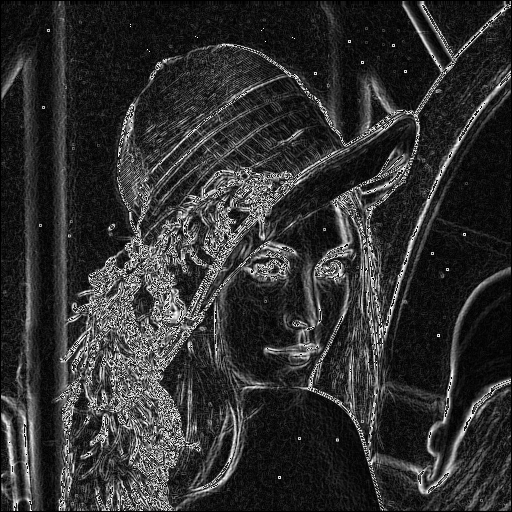
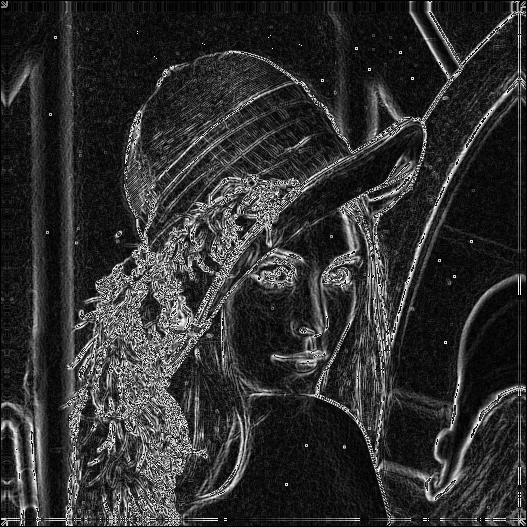
Sobel with reflection padding

diff --git a/Gaussian1D/src/gaussian/Main.java b/Gaussian1D/src/gaussian/Main.java
@@ -10,9 +10,38 @@ public class Main {
 
     /*--------------------------------------------------------------------------------------------*/
     public static void main(String[] args) throws IOException {
+        
+        /* Reflection Padding */
+        String input = "src/image/assignment03.png";
+        String output = Reflection(input, 15);
+        System.out.println("New Image: " + output);
+        
+        Gaussian1D(output);                
+    }
+    /*--------------------------------------------------------------------------------------------*/         
+    private static String Reflection(String input, int size) throws IOException {
+        
+        String output = "src/image/ReflectionPadded.png";
+        ImageReflection ref = new ImageReflection(input);
+        
+        int[][]src = ref.ImageRead(input);
+        int[][]vert = ref.ImageRead("src/image/vertical.png");
+        int[][]horiz = ref.ImageRead("src/image/horizontal.png");
+        int[][]larger = ref.reflection(src, vert, horiz, size);
+        
+        ref.writeImage(larger, output); 
+    
+        return output;
+    }
+    /*--------------------------------------------------------------------------------------------*/
 
+    private static void Gaussian1D(String source) throws IOException {
+
+        String gaussian1 = "src/image/gaussian_blur1.png";
+        String gaussian2 = "src/image/gaussian_blur2.png";
+        
         System.out.println("Reading Image: src/image/assignment03.png");
-        BufferedImage src = ImageIO.read(new File("src/image/assignment03.png"));
+        BufferedImage src = ImageIO.read(new File(source));
         BufferedImage dest = new BufferedImage(src.getWidth(), src.getHeight(), BufferedImage.TYPE_INT_ARGB);
         
         System.out.println("Computing Gaussian Kernel");
@@ -23,10 +52,10 @@ public class Main {
         cop.filter(src, dest);
         
         // Writing to a file
-        File outputfile = new File("src/image/blur1.png");
+        File outputfile = new File(gaussian1);
         ImageIO.write(dest, "png", outputfile);
         
-        src = ImageIO.read(new File("src/image/blur1.png"));
+        src = ImageIO.read(new File(gaussian1));
         dest = new BufferedImage(src.getWidth(), src.getHeight(), BufferedImage.TYPE_INT_ARGB);
         cop = gb.getGaussianBlurFilter(15, 1.6f, false);
 
@@ -34,30 +63,7 @@ public class Main {
         cop.filter(src, dest);
 
         // Writing to a file
-        outputfile = new File("src/image/blur2.png");
+        outputfile = new File(gaussian2);
         ImageIO.write(dest, "png", outputfile);        
     }
-    /*--------------------------------------------------------------------------------------------*/
-    /*--------------------------------------------------------------------------------------------*/
-    private static String Reflection(String filename, int size) throws IOException {
-        
-        String output = "src/image/ReflectionPadded.png";
-        ImageReflection ref = new ImageReflection(filename);
-        //int[][] gray1 = ref.createImage(width, lenght);
-        //ref.writeImage(gray1, filename);
-        
-        FlipVerticaly(filename);
-        FlipHorizontaly(filename);
-
-        int[][]src = ref.ImageRead(filename);
-        int[][]vert = ref.ImageRead("src/image/vertical.png");
-        int[][]horiz = ref.ImageRead("src/image/horizontal.png");
-        int[][]larger = ref.reflection(src, vert, horiz, size);
-        
-        ref.writeImage(larger, output);
-        //int[][] gray4 = ref.flipLeft(gray1, 5);     
-        return output;
-    }    
-    /*--------------------------------------------------------------------------------------------*/
-    
 }

diff --git a/Gaussian1D/src/gaussian/ImageReflection.java b/Gaussian1D/src/gaussian/ImageReflection.java
@@ -1,12 +1,24 @@
 package gaussian;
 
+import java.awt.geom.AffineTransform;
+import java.awt.image.AffineTransformOp;
 import java.awt.image.BufferedImage;
 import java.io.File;
 import java.io.IOException;
 import javax.imageio.ImageIO;
 
-public class ImageReflection {
+public final class ImageReflection {
 
+    private String input;
+    static BufferedImage image;
+    
+    /*--------------------------------------------------------------------------------------------*/
+    public ImageReflection(String input) throws IOException {
+        this.input = input;
+        FlipVerticaly();
+        FlipHorizontaly();
+        Rotate180();        
+    }
     /*--------------------------------------------------------------------------------------------*/
     public int[][] createImage(int width, int height) {
 
@@ -275,6 +287,52 @@ public class ImageReflection {
         } catch (IOException e) {
             System.out.println(e);
         }
+    }
+    /*--------------------------------------------------------------------------------------------*/
+    
+    public void FlipVerticaly() throws IOException {
+
+        image = ImageIO.read(new File(input));
+
+        // Flip the image vertically
+        AffineTransform tx = AffineTransform.getScaleInstance(1, -1);
+        tx.translate(0, -image.getHeight(null));
+        AffineTransformOp op = new AffineTransformOp(tx, AffineTransformOp.TYPE_NEAREST_NEIGHBOR);
+        BufferedImage bi = op.filter(image, null);
+
+        File outputfile = new File("src/image/vertical.png");
+        ImageIO.write(bi, "png", outputfile);
+    }
+
+    /*--------------------------------------------------------------------------------------------*/
+    public  void FlipHorizontaly() throws IOException {
+
+        image = ImageIO.read(new File(input));
+
+        // Flip the image horizontally
+        AffineTransform tx = AffineTransform.getScaleInstance(-1, 1);
+        tx.translate(-image.getWidth(null), 0);
+        AffineTransformOp op = new AffineTransformOp(tx, AffineTransformOp.TYPE_NEAREST_NEIGHBOR);
+        BufferedImage bi = op.filter(image, null);
+
+        File outputfile = new File("src/image/horizontal.png");
+        ImageIO.write(bi, "png", outputfile);
+
+    }
+    /*--------------------------------------------------------------------------------------------*/
+    public void Rotate180() throws IOException {
+
+        image = ImageIO.read(new File(input));
+
+        // Flip the image vertically and horizontally; equivalent to rotating the image 180 degrees
+        AffineTransform tx = AffineTransform.getScaleInstance(-1, -1);
+        tx.translate(-image.getWidth(null), -image.getHeight(null));
+        AffineTransformOp op = new AffineTransformOp(tx, AffineTransformOp.TYPE_NEAREST_NEIGHBOR);
+        BufferedImage bi = op.filter(image, null);
+
+        File outputfile = new File("src/image/rotate180.png");
+        ImageIO.write(bi, "png", outputfile);
+
     }
     /*--------------------------------------------------------------------------------------------*/
 

diff --git a/Sobel/src/sobel/ImageReflection.java b/Sobel/src/sobel/ImageReflection.java
@@ -1,12 +1,24 @@
 package sobel;
 
+import java.awt.geom.AffineTransform;
+import java.awt.image.AffineTransformOp;
 import java.awt.image.BufferedImage;
 import java.io.File;
 import java.io.IOException;
 import javax.imageio.ImageIO;
 
-public class ImageReflection {
+public final class ImageReflection {
 
+    private String input;
+    static BufferedImage image;
+    
+    /*--------------------------------------------------------------------------------------------*/
+    public ImageReflection(String input) throws IOException {
+        this.input = input;
+        FlipVerticaly();
+        FlipHorizontaly();
+        Rotate180();        
+    }
     /*--------------------------------------------------------------------------------------------*/
     public int[][] createImage(int width, int height) {
 
@@ -275,6 +287,52 @@ public class ImageReflection {
         } catch (IOException e) {
             System.out.println(e);
         }
+    }
+    /*--------------------------------------------------------------------------------------------*/
+    
+    public void FlipVerticaly() throws IOException {
+
+        image = ImageIO.read(new File(input));
+
+        // Flip the image vertically
+        AffineTransform tx = AffineTransform.getScaleInstance(1, -1);
+        tx.translate(0, -image.getHeight(null));
+        AffineTransformOp op = new AffineTransformOp(tx, AffineTransformOp.TYPE_NEAREST_NEIGHBOR);
+        BufferedImage bi = op.filter(image, null);
+
+        File outputfile = new File("src/image/vertical.png");
+        ImageIO.write(bi, "png", outputfile);
+    }
+
+    /*--------------------------------------------------------------------------------------------*/
+    public  void FlipHorizontaly() throws IOException {
+
+        image = ImageIO.read(new File(input));
+
+        // Flip the image horizontally
+        AffineTransform tx = AffineTransform.getScaleInstance(-1, 1);
+        tx.translate(-image.getWidth(null), 0);
+        AffineTransformOp op = new AffineTransformOp(tx, AffineTransformOp.TYPE_NEAREST_NEIGHBOR);
+        BufferedImage bi = op.filter(image, null);
+
+        File outputfile = new File("src/image/horizontal.png");
+        ImageIO.write(bi, "png", outputfile);
+
+    }
+    /*--------------------------------------------------------------------------------------------*/
+    public void Rotate180() throws IOException {
+
+        image = ImageIO.read(new File(input));
+
+        // Flip the image vertically and horizontally; equivalent to rotating the image 180 degrees
+        AffineTransform tx = AffineTransform.getScaleInstance(-1, -1);
+        tx.translate(-image.getWidth(null), -image.getHeight(null));
+        AffineTransformOp op = new AffineTransformOp(tx, AffineTransformOp.TYPE_NEAREST_NEIGHBOR);
+        BufferedImage bi = op.filter(image, null);
+
+        File outputfile = new File("src/image/rotate180.png");
+        ImageIO.write(bi, "png", outputfile);
+
     }
     /*--------------------------------------------------------------------------------------------*/
 

diff --git a/Sobel/src/sobel/Main.java b/Sobel/src/sobel/Main.java
@@ -1,10 +1,36 @@
 package sobel;
 
+import java.io.IOException;
+
 public class Main {
 
-    public static void main(String[] args) {
+    public static void main(String[] args) throws IOException {
+        /* Reflection Padding */
+        String input = "src/image/assignment03.png";
+        String output = Reflection(input, 15);
+        System.out.println("New Image: " + output);
+        
+        /* Sobel */
         Sobel sobel = new Sobel();
-        sobel.process("src/image/assignment03.png");
+        sobel.process(output);
     }
+    /*--------------------------------------------------------------------------------------------*/
+    private static String Reflection(String input, int size) throws IOException {
+        
+        String output = "src/image/ReflectionPadded.png";
+        ImageReflection ref = new ImageReflection(input);
+        //int[][] test = ref.createImage(width, lenght);
+        //ref.writeImage(test, filename);
+        
+        int[][]src = ref.ImageRead(input);
+        int[][]vert = ref.ImageRead("src/image/vertical.png");
+        int[][]horiz = ref.ImageRead("src/image/horizontal.png");
+        int[][]larger = ref.reflection(src, vert, horiz, size);
+        
+        ref.writeImage(larger, output);        
+        //ref.displayImage(larger);
     
+        return output;
+    }
+    /*--------------------------------------------------------------------------------------------*/     
 }
